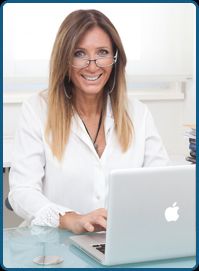
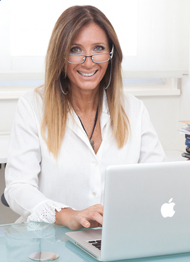
profesionales con responsive agregado

diff --git a/Pages/Profesionales.html b/Pages/Profesionales.html
@@ -9,7 +9,9 @@
     <link href="https://cdn.jsdelivr.net/npm/bootstrap@5.3.0-alpha3/dist/css/bootstrap.min.css" rel="stylesheet" integrity="sha384-KK94CHFLLe+nY2dmCWGMq91rCGa5gtU4mk92HdvYe+M/SXH301p5ILy+dN9+nJOZ" crossorigin="anonymous">
     <link rel="stylesheet" href="../CSS/styles.css">
     <link rel="preconnect" href="https://fonts.gstatic.com" crossorigin>
+    <link href="https://fonts.googleapis.com/css2?family=Poppins:wght@200&display=swap" rel="stylesheet">
     <link href="https://fonts.googleapis.com/css2?family=Poppins:wght@700&display=swap" rel="stylesheet">
+    
 
     <title>OdontoAlcorta</title>
 </head>
@@ -32,22 +34,61 @@
     </header>
     <main>
         
-            <div class="mx-auto text-center bg-white">
-                <h2 class="w-50 mx-auto">PROFESIONALES</h2>
-                <p class="w-50 mx-auto">Lorem ipsum, dolor sit amet consectetur adipisicing elit. Praesentium dolor obcaecati nisi quaerat excepturi necessitatibus, totam distinctio nostrum et in quia ipsum nemo laborum minus ex dignissimos, officiis, vel illum!</p>
+            <div class="mx-auto text-center bg-white h-auto profesionales-txt">
+                <h2 class="w-50 mx-auto pt-4">PROFESIONALES</h2>
+                <p class="w-50 mx-auto pb-4">Lorem ipsum, dolor sit amet consectetur adipisicing elit. Praesentium dolor obcaecati nisi quaerat excepturi necessitatibus, totam distinctio nostrum et in quia ipsum nemo laborum minus ex dignissimos, officiis, vel illum!</p>
             </div>
-        <div>
-            <div>
-                <div class="col-6"> <img src="../Assets/Images/Dra-Bottiroli.jpg" alt="Dra Alicia Bottiroli"> </div>
-                <div> <h2> </h2> <p> </p> </div>
-            </div>
-            <div>
-
-            </div>
-            <div>
-
-            </div>
-        </div>
+            <div class="card mb-3 mx-auto" style="max-width: 750px; max-height: 320px;">
+                <div class="row g-0">
+                  <div class="col-4 col-sm-6 col-md-4 text-center">
+                    <img src="../Assets/Images/Dra-Bottiroli.jpg" class="img-fluid img-profesional d-block mx-auto" alt="Dra. Alicia Bottiroli">
+                  </div>
+                  <div class="col-8 col-sm-6 col-md-8">
+                    <div class="card-body">
+                      <h5 class="card-title">Dra. Alicia Bottiroli</h5>
+                      <p class="card-text"> <br>Idiomas:  Inglés y Español
+                       <br> PROFESIÓN: Odontóloga (1986)
+                       <br> ESPECIALIZACIÓN: Especialista en ortodoncia
+                        Actividad privada en atención odontológica en niños y adultos en consultorio propio desde 1987 a la fecha. Prestadora de servicios odontológicos como odontóloga general, en niños y adultos y como especialista en Ortodoncia y Ortopedia para sistemas de Medicina prepaga y Obras Sociales (Cemic, Osde, Swiss Medical Group, Omint, Hospital Alemán). Prestadora de Servicios odontológicos para la Embajada de EEUU., Embajada de Reino Unido y Embajada de Canadá en la Argentina. Conducción de la coordinación del área odontológica del Centro Médico Cemic, sede Talcahuano, desde 2003 a la fecha. Docente autorizada de la Cátedra de Ortodoncia Interceptiva de la Carrera de Especialista de Ortodoncia y Ortopedia Funcional de los Maxilares del Circulo Argentino de Odontología (CAO). Docente auxiliar del Curso Continuado de Ortodoncia de la Fundación Roth Williams en Argentina, Universidad Católica Argentina (UCA).
+                        </p>
+                    </div>
+                  </div>
+                </div>
+              </div>
+              <div class="card mb-3 mx-auto" style="max-width: 750px; max-height: 320px;">
+                <div class="row g-0">
+                  <div class="col-4 text-center">
+                    <img src="../Assets/Images/Dra-Bottiroli.jpg" class="img-fluid img-profesional" alt="Dra. Alicia Bottiroli">
+                  </div>
+                  <div class="col-8">
+                    <div class="card-body">
+                      <h5 class="card-title">Dra. Alicia Bottiroli</h5>
+                      <p class="card-text"> <br>Idiomas:  Inglés y Español
+                       <br> PROFESIÓN: Odontóloga (1986)
+                       <br> ESPECIALIZACIÓN: Especialista en ortodoncia
+                        Actividad privada en atención odontológica en niños y adultos en consultorio propio desde 1987 a la fecha. Prestadora de servicios odontológicos como odontóloga general, en niños y adultos y como especialista en Ortodoncia y Ortopedia para sistemas de Medicina prepaga y Obras Sociales (Cemic, Osde, Swiss Medical Group, Omint, Hospital Alemán). Prestadora de Servicios odontológicos para la Embajada de EEUU., Embajada de Reino Unido y Embajada de Canadá en la Argentina. Conducción de la coordinación del área odontológica del Centro Médico Cemic, sede Talcahuano, desde 2003 a la fecha. Docente autorizada de la Cátedra de Ortodoncia Interceptiva de la Carrera de Especialista de Ortodoncia y Ortopedia Funcional de los Maxilares del Circulo Argentino de Odontología (CAO). Docente auxiliar del Curso Continuado de Ortodoncia de la Fundación Roth Williams en Argentina, Universidad Católica Argentina (UCA).
+                        </p>
+                    </div>
+                  </div>
+                </div>
+              </div>
+              <div class="card mb-3 mx-auto" style="max-width: 750px; max-height: 320px;">
+                <div class="row g-0">
+                  <div class="col-4 text-center">
+                    <img src="../Assets/Images/Dra-Bottiroli.jpg" class="img-fluid img-profesional" alt="Dra. Alicia Bottiroli">
+                  </div>
+                  <div class="col-8">
+                    <div class="card-body">
+                      <h5 class="card-title">Dra. Alicia Bottiroli</h5>
+                      <p class="card-text"> <br>Idiomas:  Inglés y Español
+                       <br> PROFESIÓN: Odontóloga (1986)
+                       <br> ESPECIALIZACIÓN: Especialista en ortodoncia
+                        Actividad privada en atención odontológica en niños y adultos en consultorio propio desde 1987 a la fecha. Prestadora de servicios odontológicos como odontóloga general, en niños y adultos y como especialista en Ortodoncia y Ortopedia para sistemas de Medicina prepaga y Obras Sociales (Cemic, Osde, Swiss Medical Group, Omint, Hospital Alemán). Prestadora de Servicios odontológicos para la Embajada de EEUU., Embajada de Reino Unido y Embajada de Canadá en la Argentina. Conducción de la coordinación del área odontológica del Centro Médico Cemic, sede Talcahuano, desde 2003 a la fecha. Docente autorizada de la Cátedra de Ortodoncia Interceptiva de la Carrera de Especialista de Ortodoncia y Ortopedia Funcional de los Maxilares del Circulo Argentino de Odontología (CAO). Docente auxiliar del Curso Continuado de Ortodoncia de la Fundación Roth Williams en Argentina, Universidad Católica Argentina (UCA).
+                        </p>
+                    </div>
+                  </div>
+                </div>
+              </div>
     </main>
     <footer class="footer-grid">
         <a href="https://www.facebook.com/OdontologiaAlcorta" target="_blank"><i class="fa-brands fa-facebook fbook"></i></a>

diff --git a/CSS/styles.css b/CSS/styles.css
@@ -2,7 +2,8 @@
   margin: 0px;
   padding: 0px;
   font-family: 'Poppins', sans-serif;
-  box-sizing: border-box; }
+  box-sizing: border-box;
+  font-weight: 700; }
 
 body {
   background-color: #EAEAEA; }
@@ -10,26 +11,58 @@ body {
 html {
   font-size: 62.5%; }
 
+h5 {
+  color: #000000;
+  font-weight: 700; }
+
+h4 {
+  color: #000000;
+  text-decoration: underline;
+  text-decoration-color: #000000;
+  font-weight: 700; }
+
 h3 {
   text-align: center;
   color: #ffffff;
-  padding-top: 4rem; }
+  padding-top: 4rem;
+  font-weight: 700; }
 
 h2 {
   color: #000000;
   text-decoration: underline;
   text-decoration-color: #000000;
-  font-size: 4rem; }
+  font-size: 4rem;
+  font-weight: 700; }
 
 h1 {
   color: #000000;
   text-decoration: underline;
   text-decoration-color: #000000;
-  font-size: 2.8rem; }
+  font-size: 2.8rem;
+  font-weight: 700; }
 
 p {
   color: #000000;
   font-size: 2rem; }
+
+.card-text {
+  font-size: 1.5rem;
+  overflow: scroll;
+  max-height: 250px;
+  font-weight: 200;
+  overflow-x: hidden; }
+  .card-text::-webkit-scrollbar {
+    background-color: #ffffff;
+    width: 0.5rem; }
+  .card-text::-webkit-scrollbar-thumb {
+    background: #1D2C4D;
+    border-radius: 4px; }
+
+.card-title {
+  font-size: 2rem; }
+
+.card {
+  border-radius: 1rem; }
 
 header {
   height: 10rem;
@@ -186,6 +219,10 @@ footer {
     margin: 0vh 2vw;
     margin-bottom: 2vh; }
 
+.img-profesional {
+  border-radius: 10%;
+  margin-top: 2rem; }
+
 .galeria {
   width: 50%;
   height: 50%;
@@ -298,7 +335,17 @@ footer {
     font-size: 2.5rem; }
   .contactenos p {
     color: #000000;
-    font-size: 1.25rem; } }
+    font-size: 1.25rem; }
+  .card {
+    width: 100%; }
+    .card div div div h5 {
+      font-size: 2rem; }
+    .card div div div p {
+      font-size: 1.5rem; }
+  .profesionales-txt h2 {
+    font-size: 2.5rem; }
+  .profesionales-txt p {
+    font-size: 1.5rem; } }
 
 @media (max-width: 425px) {
   .bienvenidos-text h1 {
@@ -320,4 +367,18 @@ footer {
     font-size: 1.5rem; }
   .contactenos p {
     color: #000000;
+    font-size: 1rem; }
+  .card {
+    width: 100%; }
+    .card div div img {
+      display: block;
+      margin: auto;
+      padding-top: 60%; }
+    .card div div div h5 {
+      font-size: 1.5rem; }
+    .card div div div p {
+      font-size: 1rem; }
+  .profesionales-txt h2 {
+    font-size: 2rem; }
+  .profesionales-txt p {
     font-size: 1rem; } }

diff --git a/scss/layout/_media425.scss b/scss/layout/_media425.scss
@@ -31,5 +31,34 @@
             color:#000000 ;
             font-size: 1rem; 
         }
-}
+    }
+
+    .card{
+        width: 100%;
+        div{
+            div{
+                img{
+                    display: block;
+                    margin: auto;
+                    padding-top: 60%;
+                }
+                div{
+                    h5{
+                        font-size: 1.5rem;
+                    }
+                    p{
+                        font-size: 1rem;
+                    }
+                }
+            }
+        }
+    }
+    .profesionales-txt{
+        h2{
+            font-size: 2rem;
+        }
+        p{
+            font-size: 1rem;
+        }
+    }
 }

diff --git a/scss/base/_typo.scss b/scss/base/_typo.scss
@@ -1,22 +1,36 @@
 html{
     font-size: 62.5%;
+    
+}
+h5{
+    color:#000000 ;
+    font-weight: 700;
+}
+h4{
+    color:#000000 ;
+    text-decoration: underline;
+    text-decoration-color:#000000 ;
+    font-weight: 700;
 }
 h3{
     text-align: center;
     color: #ffffff;
     padding-top: 4rem;
+    font-weight: 700;
 }
 h2{
     color:#000000 ;
     text-decoration: underline;
     text-decoration-color:#000000 ;
     font-size: 4rem;
+    font-weight: 700;
 }
 h1{
     color:#000000 ;
     text-decoration: underline;
     text-decoration-color:#000000 ;
     font-size: 2.8rem;
+    font-weight: 700;
 }
 p{
     color:#000000 ;

diff --git a/scss/layout/_media860.scss b/scss/layout/_media860.scss
@@ -36,5 +36,27 @@
             font-size: 1.25rem; 
         }
     }
-    
+    .card{
+        width: 100%;
+        div{
+            div{
+                div{
+                    h5{
+                        font-size: 2rem;
+                    }
+                    p{
+                        font-size: 1.5rem;
+                    }
+                }
+            }
+        }
+    }
+    .profesionales-txt{
+        h2{
+            font-size: 2.5rem;
+        }
+        p{
+            font-size: 1.5rem;
+        }
+    }
 }

diff --git a/scss/components/_bootstrap.scss b/scss/components/_bootstrap.scss
@@ -1,0 +1,23 @@
+.card-text{
+    font-size: 1.5rem;
+    overflow:scroll;
+    max-height: 250px;
+    font-weight: 200;
+    overflow-x: hidden;
+    &::-webkit-scrollbar{
+        background-color: $bg-cuadros-texto;
+        width:0.5rem;
+    }
+    &::-webkit-scrollbar-thumb{
+        background: $bg-header-footer;
+        border-radius: 4px;
+    }
+}
+.card-title{
+    font-size: 2rem;
+}
+
+.card{
+    border-radius: 1rem;
+    
+}

diff --git a/scss/styles.scss b/scss/styles.scss
@@ -2,10 +2,12 @@
 @import "./utilities/mixins";
 @import "./base/reset";
 @import "./base/typo";
+@import "./components/bootstrap";
 @import "./layout/header";
 @import "./layout/banner";
 @import "./layout/footer";
 @import "./layout/main-index";
+@import "./layout/main-profesionales";
 @import "./layout/main-galeria";
 @import "./layout/main-contactenos";
 @import "./layout/media1365";

diff --git a/scss/base/_reset.scss b/scss/base/_reset.scss
@@ -3,6 +3,7 @@
     padding: 0px;
     font-family: 'Poppins', sans-serif;
     box-sizing: border-box;
+    font-weight: 700;
 }
 body{
     background-color:$bg-general;

diff --git a/scss/layout/_main-profesionales.scss b/scss/layout/_main-profesionales.scss
@@ -1,0 +1,5 @@
+.img-profesional{
+    border-radius: 10%;
+    margin-top: 2rem;
+}
+
